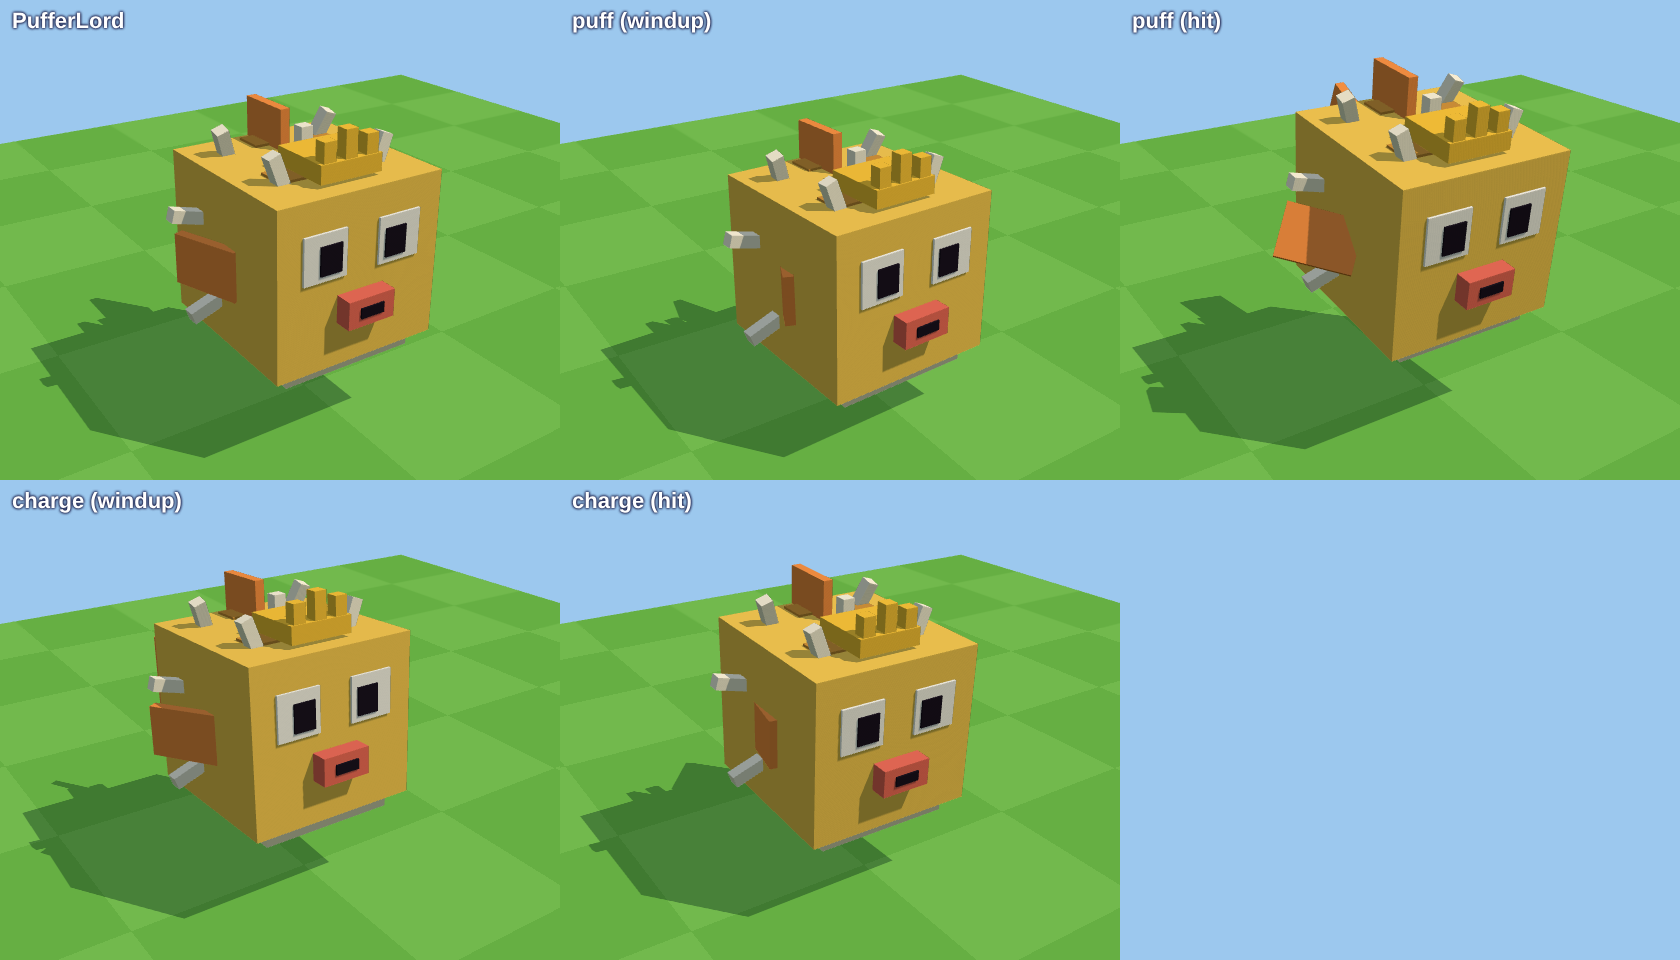
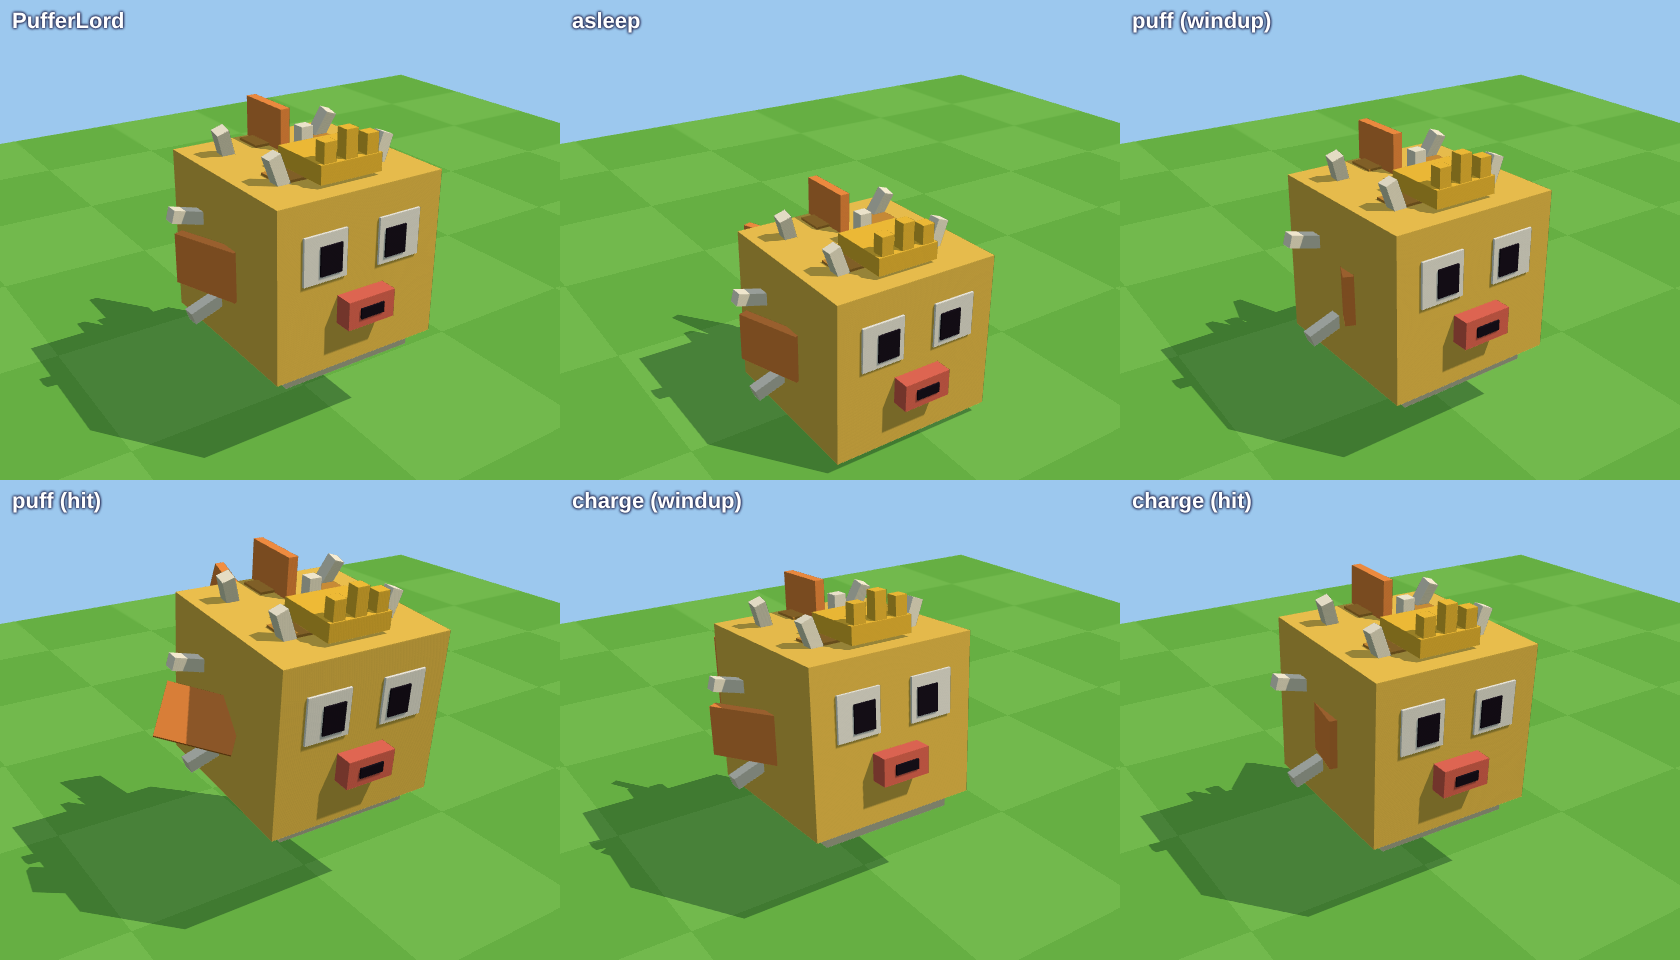
Sleep poses for the new bosses (Config.BossSleep.Poses, written by tools/boss_designs.py from each one's sleep())
Claude-Session: https://claude.ai/code/session_01RhYZKumGRhLG1zVREYxNTa

diff --git a/tools/boss_designs.py b/tools/boss_designs.py
@@ -7,7 +7,7 @@ The roster and each attack's windup: /mnt/project-files/boss-roster/design.md (Q
 
 import sys
 
-from boss_forge import Model, bob, wave
+from boss_forge import Model, bob, wave, write_sleep
 
 DARK = (30, 22, 34)  # eyes and mouths, as the Cactus Boss's
 WHITE = (250, 246, 236)
@@ -1166,11 +1166,77 @@ BUILDERS = [scorpion_king, frost_golem, blizzard_owl, magma_slime, bone_warden, 
             rune_mage, elder_treant, toadstool_king, crimson_knight, castle_guard, blood_bat, castle_wyvern, puffer_lord, kraken]
 
 
+# how each sleeps on its dais till its egg is stolen (Config.BossSleep.Poses; no Zzz: QM)
+# bones and breathe: (x, y, z, rx, ry, rz), drawing studs and degrees
+SLEEPS = {
+    "ScorpionKing": dict(note="belly down, pincers tucked in, tail drooped forward",
+                         bones={"root": (0, -1, 0, 0, 0, 0), "ClawL": (0.3, -0.4, 0.8, -8, -20, 0), "ClawR": (-0.3, -0.4, 0.8, -8, 20, 0),
+                                "Tail": (0, 0, 0, -12, 0, 0), "Stinger": (0, 0, 0, -30, 0, 0)},
+                         breathe={"root": (0, 0.12, 0, 0, 0, 0), "Tail": (0, 0, 0, 3, 0, 0)}, shut=["EyeL", "EyeR"]),
+    "FrostGolem": dict(note="slumped down, fists on the ground",
+                       bones={"root": (0, -1.4, 0, -6, 0, 0), "ArmL": (0, 0, 0, 10, 0, 6), "ArmR": (0, 0, 0, 10, 0, -6)},
+                       breathe={"root": (0, 0.15, 0, 1, 0, 0)}, shut=["GlowL", "GlowR"]),
+    "BlizzardOwl": dict(note="landed, wings tucked in",
+                        bones={"root": (0, -3.4, 0, 0, 0, 0), "WingL": (0, 0, 0, 0, 0, 6), "WingR": (0, 0, 0, 0, 0, -6)},
+                        breathe={"root": (0, 0.12, 0, 0, 0, 0), "WingL": (0, 0, 0, 0, 0, 3), "WingR": (0, 0, 0, 0, 0, -3)},
+                        shut=["EyeL", "EyeR"], hide=["PupilL", "PupilR"]),
+    "MagmaSlime": dict(note="settled, its lid down",
+                       bones={"root": (0, -0.5, 0, 0, 0, 0), "Lid": (0, -0.15, 0, 0, 0, 0)},
+                       breathe={"root": (0, 0.12, 0, 0, 0, 0), "Lid": (0, 0.2, 0, 0, 0, 0)}, shut=["EyeL", "EyeR"]),
+    "BoneWarden": dict(note="sat on the ground, legs out, skull drooped, sword laid forward",
+                       bones={"root": (0, -2.4, 0.6, 0, 0, 0), "LegL": (0, 0, 0, 80, 0, -8), "LegR": (0, 0, 0, 80, 0, 8),
+                              "neck": (0, 0, 0, -25, 0, 8), "ArmR": (0, 0, 0, 20, 0, 0), "ArmL": (0, 0, 0, 10, 0, -6)},
+                       breathe={"root": (0, 0.1, 0, 0, 0, 0), "neck": (0, 0, 0, 3, 0, 0)}, hide=["GlowL", "GlowR"]),
+    "DungeonWatcher": dict(note="sunk to the floor, its lid shut",
+                           bones={"root": (0, -3.6, 0, 0, 0, 0), "Lid": (0, -2.6, 0, 0, 0, 0)},
+                           breathe={"root": (0, 0.15, 0, 0, 0, 0)}, shut=["Sclera"], hide=["Iris", "Pupil"]),
+    "TreasureMimic": dict(note="just a chest, lid shut, lifting a crack with each breath",
+                          bones={"root": (0, -0.2, 0, 0, 0, 0), "Lid": (0, 0, 0, 0, 0, 0)},
+                          breathe={"root": (0, 0.08, 0, 0, 0, 0), "Lid": (0, 0, 0, 4, 0, 0)}, shut=["EyeL", "EyeR"]),
+    "RuneMage": dict(note="settled down, hat tipped over its eyes",
+                     bones={"root": (0, -0.3, 0, -4, 0, 0), "Hat": (0, -0.3, -0.2, -14, 0, 0), "ArmR": (0, 0, 0, 4, 0, 0)},
+                     breathe={"root": (0, 0.1, 0, 0, 0, 0), "Hat": (0, 0, 0, 2, 0, 0)}, shut=["EyeL", "EyeR"]),
+    "ElderTreant": dict(note="branches drooped, canopy sagging",
+                        bones={"root": (0, 0, 0, -2, 0, 0), "ArmL": (0, 0, 0, 0, 0, 20), "ArmR": (0, 0, 0, 0, 0, -20),
+                               "Canopy": (0, -0.3, 0, -4, 0, 0)},
+                        breathe={"Canopy": (0, 0.15, 0, 1, 0, 0)}, shut=["EyeL", "EyeR"]),
+    "ToadstoolKing": dict(note="squat, cap tipped forward",
+                          bones={"root": (0, -0.8, 0, 0, 0, 0), "Cap": (0, -0.5, 0, -8, 0, 0)},
+                          breathe={"Cap": (0, 0.2, 0, 0, 0, 0)}, shut=["EyeL", "EyeR"]),
+    "CrimsonKnight": dict(note="asleep on his feet, leaning on his lance, helm drooped",
+                          bones={"root": (0, -0.3, 0, -4, 0, 0), "neck": (0, -0.2, 0, -28, 0, 6), "ArmL": (0, 0, 0, 6, 0, 0)},
+                          breathe={"root": (0, 0.1, 0, 0, 0, 0), "neck": (0, 0, 0, 3, 0, 0)}),
+    "BloodBat": dict(note="landed, wrapped in its wings",
+                     bones={"root": (0, -3, 0, 0, 0, 0), "WingL": (0, 0, 0, 0, -50, 75), "WingR": (0, 0, 0, 0, 50, -75)},
+                     breathe={"root": (0, 0.1, 0, 0, 0, 0)}, shut=["EyeL", "EyeR"]),
+    "CastleWyvern": dict(note="lying down, head on the ground, tail curled round, wings folded",
+                         bones={"root": (0, -1.8, 0, 0, 0, 0), "neck": (0, -1.4, 0.4, -24, 30, 0), "Tail": (0, 0, 0, 0, -50, 0),
+                                "WingL": (0, 0, 0, 0, 0, 30), "WingR": (0, 0, 0, 0, 0, -30)},
+                         breathe={"root": (0, 0.12, 0, 0, 0, 0), "WingL": (0, 0, 0, 0, 0, -4), "WingR": (0, 0, 0, 0, 0, 4)},
+                         shut=["EyeL", "EyeR"]),
+    "PufferLord": dict(note="resting on the sand, deflated",
+                       bones={"root": (0, -3.4, 0, 0, 0, 0), "Tail": (0, 0, 0, 0, 20, 0)},
+                       breathe={"root": (0, 0.15, 0, 0, 0, 0)}, shut=["EyeL", "EyeR"], hide=["PupilL", "PupilR"]),
+    "Kraken": dict(note="sunk low, tentacles drawn down into the floor, just their tips showing",
+                   bones={"root": (0, -1, 0, 0, 0, 0), "Tent1": (0, -5.5, 0, 0, 0, -10), "Tent2": (0, -5.5, 0, 0, 0, 10),
+                          "Tent3": (0, -5.5, 0, 0, 0, -10), "Tent4": (0, -5.5, 0, 0, 0, 10)},
+                   breathe={"root": (0, 0.15, 0, 0, 0, 0)}, shut=["EyeL", "EyeR"], hide=["PupilL", "PupilR"]),
+}
+
+
 def models():
-    return [b() for b in BUILDERS]
+    out = []
+    for b in BUILDERS:
+        m = b()
+        if m.name in SLEEPS:
+            m.sleep(**SLEEPS[m.name])
+        out.append(m)
+    return out
 
 
 if __name__ == "__main__":
-    for m in models():
+    made = models()
+    for m in made:
         if len(sys.argv) < 2 or m.name in sys.argv[1:]:
             m.write()
+    write_sleep(made)

diff --git a/tools/boss_forge.py b/tools/boss_forge.py
@@ -51,6 +51,7 @@ class Model:
         self.bones = []  # (name, parent, pivot)
         self.parts = []  # dicts
         self.anims = {}  # name -> { length, hit, tracks: { bone: { rotation, position } } }
+        self.sleeping = None  # its Config.BossSleep.Poses entry (sleep())
 
     # -- shape --------------------------------------------------------------------------
     def bone(self, name, parent, pivot):
@@ -86,6 +87,12 @@ class Model:
     def anim(self, name, length, tracks, hit=None):
         """tracks: { bone: { "r": [(t, rx, ry, rz) degrees], "p": [(t, x, y, z) studs] } }"""
         self.anims[name] = {"length": length, "hit": hit, "tracks": tracks}
+
+    def sleep(self, bones, breathe=None, shut=(), hide=(), note=""):
+        """How it sleeps on its dais till you steal its egg (Config.BossSleep.Poses, played by
+        Client/BossView): bones and breathe are { bone: (x, y, z, rx, ry, rz) }, studs and
+        degrees; shut are its eyes (squashed to a dark line), hide its pupils (gone)."""
+        self.sleeping = {"bones": bones, "breathe": breathe or {}, "shut": list(shut), "hide": list(hide), "note": note}
 
     # -- out ----------------------------------------------------------------------------
     def luau(self):
@@ -164,3 +171,46 @@ def bob(length, height, phase=0.0, steps=8, double=False):
 def poses(*keys):
     """(t, (x, y, z)) pairs to (t, x, y, z) keys."""
     return [(t, *v) for t, v in keys]
+
+
+SLEEP_BEGIN = "\t\t\t-- the bosses made in Python: written by tools/boss_designs.py from each one's sleep() (QM, Oct 30)"
+SLEEP_END = "\t\t\t-- end of the bosses made in Python"
+
+
+def write_sleep(models):
+    """Every model's sleep() into Config.BossSleep.Poses, between two marker comments."""
+    path = os.path.join(ROOT, "src", "shared", "Config.luau")
+    src = open(path).read()
+    if SLEEP_BEGIN in src:
+        src = src[:src.index(SLEEP_BEGIN)] + src[src.index(SLEEP_END) + len(SLEEP_END) + 1:]
+    start = src.index("{", src.index("Poses = {", src.index("BossSleep = {")))
+    depth, i = 0, start
+    while True:
+        depth += {"{": 1, "}": -1}.get(src[i], 0)
+        if depth == 0:
+            break
+        i += 1
+    line = src.rindex("\n", 0, i) + 1
+
+    def pose(v):
+        x, y, z, rx, ry, rz = v
+        return "{{ {}, {}, {}, {}, {}, {} }}".format(g(x), g(y), g(z), g(math.radians(rx)), g(math.radians(ry)), g(math.radians(rz)))
+
+    out = [SLEEP_BEGIN]
+    for m in models:
+        s = m.sleeping
+        if not s:
+            continue
+        out.append("\t\t\t{} = {{{}".format(m.name, " -- (" + s["note"] + ")" if s["note"] else ""))
+        for key, field in (("bones", "Bones"), ("breathe", "Breathe")):
+            out.append("\t\t\t\t{} = {{".format(field))
+            for bone, v in s[key].items():
+                out.append("\t\t\t\t\t{} = {},".format(bone, pose(v)))
+            out.append("\t\t\t\t},")
+        for key, field in (("shut", "Shut"), ("hide", "Hide")):
+            out.append("\t\t\t\t{} = {{{}}},".format(field, " " + ", ".join('"%s"' % n for n in s[key]) + " " if s[key] else ""))
+        out.append("\t\t\t},")
+    out.append(SLEEP_END)
+    src = src[:line] + "\n".join(out) + "\n" + src[line:]
+    open(path, "w").write(src)
+    print("wrote", sum(1 for m in models if m.sleeping), "sleep poses into Config.BossSleep.Poses")

diff --git a/tools/render_boss.py b/tools/render_boss.py
@@ -121,6 +121,10 @@ def frames(model, view):
 def stills(model, view):
     eye, at, _ = view
     out = [{"name": "s0.png", "pose": {}, "label": model.name, "eye": eye, "at": at}]
+    if getattr(model, "sleeping", None):
+        sl = model.sleeping["bones"]
+        out.append({"name": "s1.png", "pose": {b: list(v[:3]) + [math.radians(a) for a in v[3:]] for b, v in sl.items()},
+                    "label": "asleep", "eye": eye, "at": at})
     for name, a in model.anims.items():
         if name in ("idle", "walk", "gallop"):
             continue
